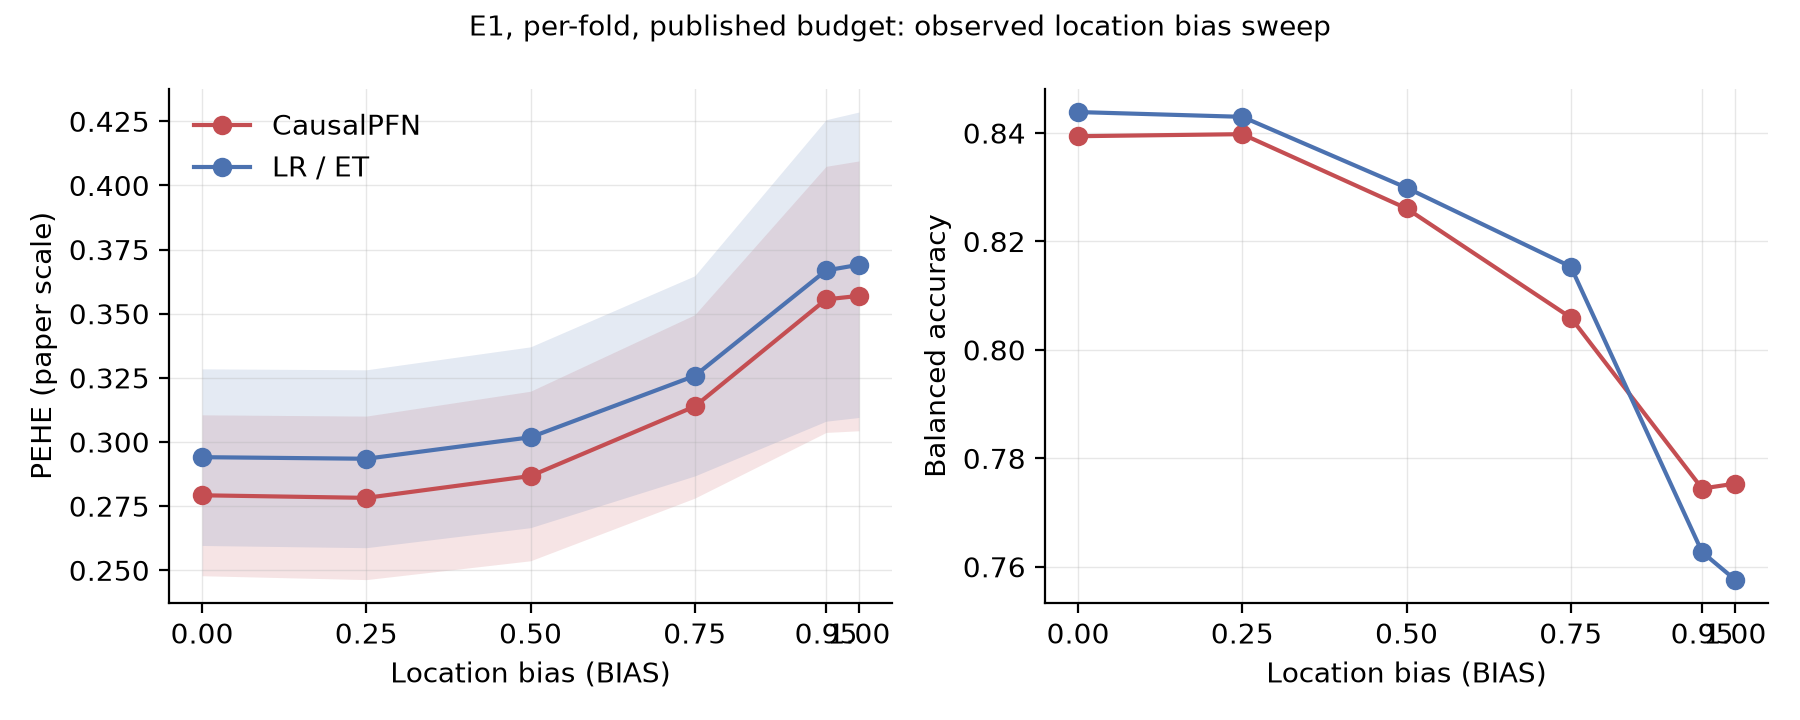
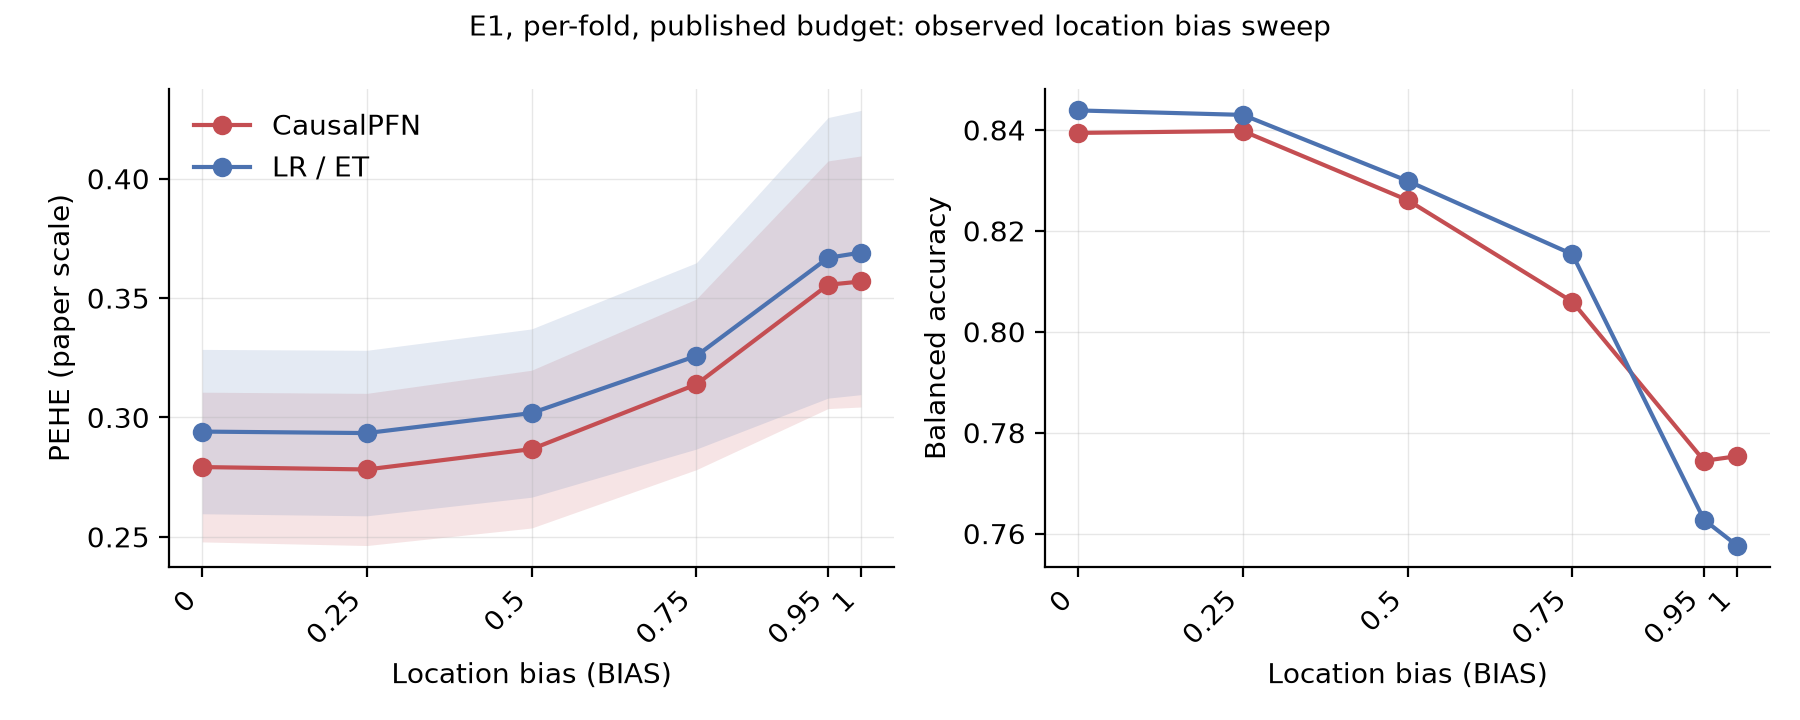
status 20261015_0326: F30 figure redrawn, balanced accuracy paired tests

diff --git a/scripts/job_timing.py b/scripts/job_timing.py
@@ -1,0 +1,167 @@
+"""Where the time of finished SGE jobs went: queue wait against run time.
+
+Reads the job ids from SGE log files (<name>.o<jobid>[.<task>]), asks qacct
+for each one and prints, per job, the wait in the queue, the run time, the
+node and the training time the per-fold trainer printed itself
+("... (0.42 h)"). The summary says whether the bottleneck is the scheduler
+(long waits, few jobs at a time) or the compute (long runs), which decides
+what speeds a re-run up. Read-only: qacct and the log files; seconds on a
+login node.
+
+    python scripts/job_timing.py ~/Scratch/neuro-causal-pfn-perfold/e11br*.o*
+    python scripts/job_timing.py --last 60 ~/Scratch/neuro-causal-pfn-perfold/e3r*.o*
+"""
+import argparse
+import datetime as dt
+import os
+import re
+import statistics
+import subprocess
+import sys
+
+_FMT = "%a %b %d %H:%M:%S %Y"
+
+
+def parse_records(text: str) -> list:
+    """Every record of a qacct output, as dicts."""
+    rec, recs = {}, []
+    for line in text.splitlines():
+        if line.startswith("=" * 10):
+            if rec:
+                recs.append(rec)
+            rec = {}
+            continue
+        parts = line.split(None, 1)
+        if len(parts) == 2:
+            rec[parts[0]] = parts[1].strip()
+    if rec:
+        recs.append(rec)
+    return recs
+
+
+def pick(recs: list) -> dict:
+    """The successful record of a job (a rescheduled job has several)."""
+    done = [r for r in recs if r.get("failed", "0").split()[0] == "0"]
+    return (done or recs or [{}])[-1]
+
+
+def parse_qacct(text: str) -> dict:
+    """The last record of a qacct -j output (a rescheduled job has several)."""
+    rec, recs = {}, []
+    for line in text.splitlines():
+        if line.startswith("=" * 10):
+            if rec:
+                recs.append(rec)
+            rec = {}
+            continue
+        parts = line.split(None, 1)
+        if len(parts) == 2:
+            rec[parts[0]] = parts[1].strip()
+    if rec:
+        recs.append(rec)
+    done = [r for r in recs if r.get("failed", "0").split()[0] == "0"]
+    return (done or recs or [{}])[-1]
+
+
+def _t(s: str):
+    try:
+        return dt.datetime.strptime(s.strip(), _FMT)
+    except (ValueError, AttributeError):
+        return None
+
+
+def job_row(log_path: str, records: dict = None) -> dict:
+    """``records``: jobnumber -> qacct records from one batched query; without
+    it, one qacct call for this job (slow on a large accounting file)."""
+    m = re.search(r"\.o(\d+)(?:\.(\d+))?$", log_path)
+    if not m:
+        return {}
+    jid = m.group(1)
+    if records is not None:
+        r = pick(records.get(jid, []))
+    else:
+        out = subprocess.run(["qacct", "-j", jid], capture_output=True, text=True).stdout
+        r = parse_qacct(out)
+    q, s, e = _t(r.get("qsub_time", "")), _t(r.get("start_time", "")), _t(r.get("end_time", ""))
+    train_h = None
+    try:
+        with open(log_path, errors="replace") as fh:
+            for line in fh:
+                mm = re.search(r"\((\d+\.\d+) h\)\s*$", line)
+                if mm:
+                    train_h = float(mm.group(1))
+    except OSError:
+        pass
+    return {"job": jid, "node": r.get("hostname", "?").split(".")[0],
+            "wait_h": (s - q).total_seconds() / 3600 if q and s else None,
+            "run_h": (e - s).total_seconds() / 3600 if s and e else None,
+            "train_h": train_h, "start": s, "end": e,
+            "maxvmem": r.get("maxvmem", "?"), "failed": r.get("failed", "?")}
+
+
+def summarise(rows):
+    def stats(key):
+        v = [r[key] for r in rows if r.get(key) is not None]
+        if not v:
+            return "n/a"
+        return f"median {statistics.median(v):.2f} h, min {min(v):.2f}, max {max(v):.2f} (n={len(v)})"
+
+    print(f"queue wait : {stats('wait_h')}")
+    print(f"run time   : {stats('run_h')}")
+    print(f"train+encode printed by the trainer: {stats('train_h')}")
+    spans = [(r["start"], r["end"]) for r in rows if r.get("start") and r.get("end")]
+    if spans:
+        events = sorted([(a, 1) for a, _ in spans] + [(b, -1) for _, b in spans])
+        cur = peak = 0
+        for _, d in events:
+            cur += d
+            peak = max(peak, cur)
+        first, last = min(a for a, _ in spans), max(b for _, b in spans)
+        busy = sum((b - a).total_seconds() for a, b in spans)
+        wall = (last - first).total_seconds()
+        print(f"jobs running at once: peak {peak}, mean {busy / wall:.1f} over {wall / 3600:.1f} h of wall clock")
+    nodes = {}
+    for r in rows:
+        nodes[r["node"]] = nodes.get(r["node"], 0) + 1
+    print("nodes:", ", ".join(f"{k} x{v}" for k, v in sorted(nodes.items(), key=lambda kv: -kv[1])[:8]))
+
+
+def main(argv=None):
+    ap = argparse.ArgumentParser(description=__doc__.split("\n\n")[0])
+    ap.add_argument("logs", nargs="+")
+    ap.add_argument("--last", type=int, default=0, help="only the N most recent log files")
+    ap.add_argument("--rows", action="store_true", help="print one line per job")
+    ap.add_argument("--days", type=int, default=7, help="accounting window passed to qacct -d")
+    ap.add_argument("--name", default=None, help="job-name pattern for qacct (default: common prefix of the logs + *)")
+    ap.add_argument("--timeout", type=int, default=300)
+    args = ap.parse_args(argv)
+    logs = sorted(set(args.logs), key=lambda p: os.path.getmtime(p) if os.path.exists(p) else 0)
+    if args.last:
+        logs = logs[-args.last:]
+    # one qacct scan for every job, by name pattern and limited in days: one
+    # call per job re-reads the whole accounting file each time
+    names = [re.sub(r"\.o\d+(?:\.\d+)?$", "", os.path.basename(p)) for p in logs]
+    prefix = os.path.commonprefix(names) or names[0]
+    pattern = args.name or (prefix + "*")
+    print(f"qacct -d {args.days} -j '{pattern}' (one scan) ...", flush=True)
+    try:
+        out = subprocess.run(["qacct", "-d", str(args.days), "-j", pattern], capture_output=True,
+                             text=True, timeout=args.timeout).stdout
+    except subprocess.TimeoutExpired:
+        sys.exit(f"qacct took more than {args.timeout} s; lower --days")
+    records = {}
+    for rec in parse_records(out):
+        records.setdefault(rec.get("jobnumber", ""), []).append(rec)
+    rows = [r for r in (job_row(p, records) for p in logs) if r]
+    if not rows:
+        sys.exit("no SGE job id found in the given file names (expected <name>.o<jobid>)")
+    if args.rows:
+        for r in rows:
+            f = lambda x: "  -  " if x is None else f"{x:5.2f}"
+            print(f"{r['job']:>8} {r['node']:>16} wait {f(r['wait_h'])} h  run {f(r['run_h'])} h  "
+                  f"train {f(r['train_h'])} h  mem {r['maxvmem']}")
+    summarise(rows)
+
+
+if __name__ == "__main__":
+    main()

diff --git a/src/neurocausalpfn/pfn/estimator.py b/src/neurocausalpfn/pfn/estimator.py
@@ -127,6 +127,12 @@ class CausalPFNEstimator:
                                  num_neighbours=num_neighbours, calibrate=False, verbose=False)
         self._k = int(num_neighbours)
         self.name = "causalpfn"
+        # F08 of the audit: CausalPFN compresses any representation wider than
+        # its max_feature_size with a TruncatedSVD (uncentred) fitted on each
+        # context, while narrower ones enter raw. Every call records it and the
+        # first call of each input width prints one line to the scoring log.
+        self.last_info: dict = {}
+        self._reported_widths: set = set()
 
     def __call__(self, Xtr: np.ndarray, W: np.ndarray, Y: np.ndarray,
                  Xte: np.ndarray) -> Tuple[np.ndarray, np.ndarray]:
@@ -135,6 +141,13 @@ class CausalPFNEstimator:
         # the neighbour search needs k <= smallest treatment group of the context
         self.est.num_neighbours = max(1, min(self._k, int((W == 1).sum()), int((W == 0).sum())))
         self.est.fit(Xtr, W, Y)
+        mfs = self.est.max_feature_size
+        self.last_info = {"d_in": int(Xtr.shape[1]), "max_feature_size": mfs,
+                          "truncated_svd": bool(mfs is not None and Xtr.shape[1] > mfs)}
+        if self.last_info["d_in"] not in self._reported_widths:
+            self._reported_widths.add(self.last_info["d_in"])
+            print(f"causalpfn: d_in={self.last_info['d_in']} max_feature_size={mfs} "
+                  f"truncated_svd={self.last_info['truncated_svd']}", flush=True)
         n = len(Xte)
         Xq = np.concatenate([Xte, Xte], axis=0)
         if self.est.max_feature_size is not None and Xq.shape[1] > self.est.max_feature_size:

diff --git a/scripts/plot_bias_sweep.py b/scripts/plot_bias_sweep.py
@@ -90,7 +90,10 @@ def main(argv=None):
         axes[1].plot(g["bias"], g["balacc"], "o-", color=colors[est], label=est)
     axes[0].set_ylabel("PEHE (paper scale)"); axes[1].set_ylabel("Balanced accuracy")
     for ax in axes:
-        ax.set_xlabel("Location bias (BIAS)"); ax.set_xticks([b for b, _ in CELLS])
+        ax.set_xlabel("Location bias (BIAS)")
+        # 0.95 and 1 sit too close for horizontal labels: rotate them
+        ax.set_xticks([b for b, _ in CELLS])
+        ax.set_xticklabels([f"{b:g}" for b, _ in CELLS], rotation=45, ha="right")
         ax.grid(alpha=0.3, lw=0.5); ax.spines[["top", "right"]].set_visible(False)
     axes[0].legend(frameon=False)
     fig.suptitle(f"{args.eid}, per-fold, {args.budget} budget: observed location bias sweep", fontsize=10)
